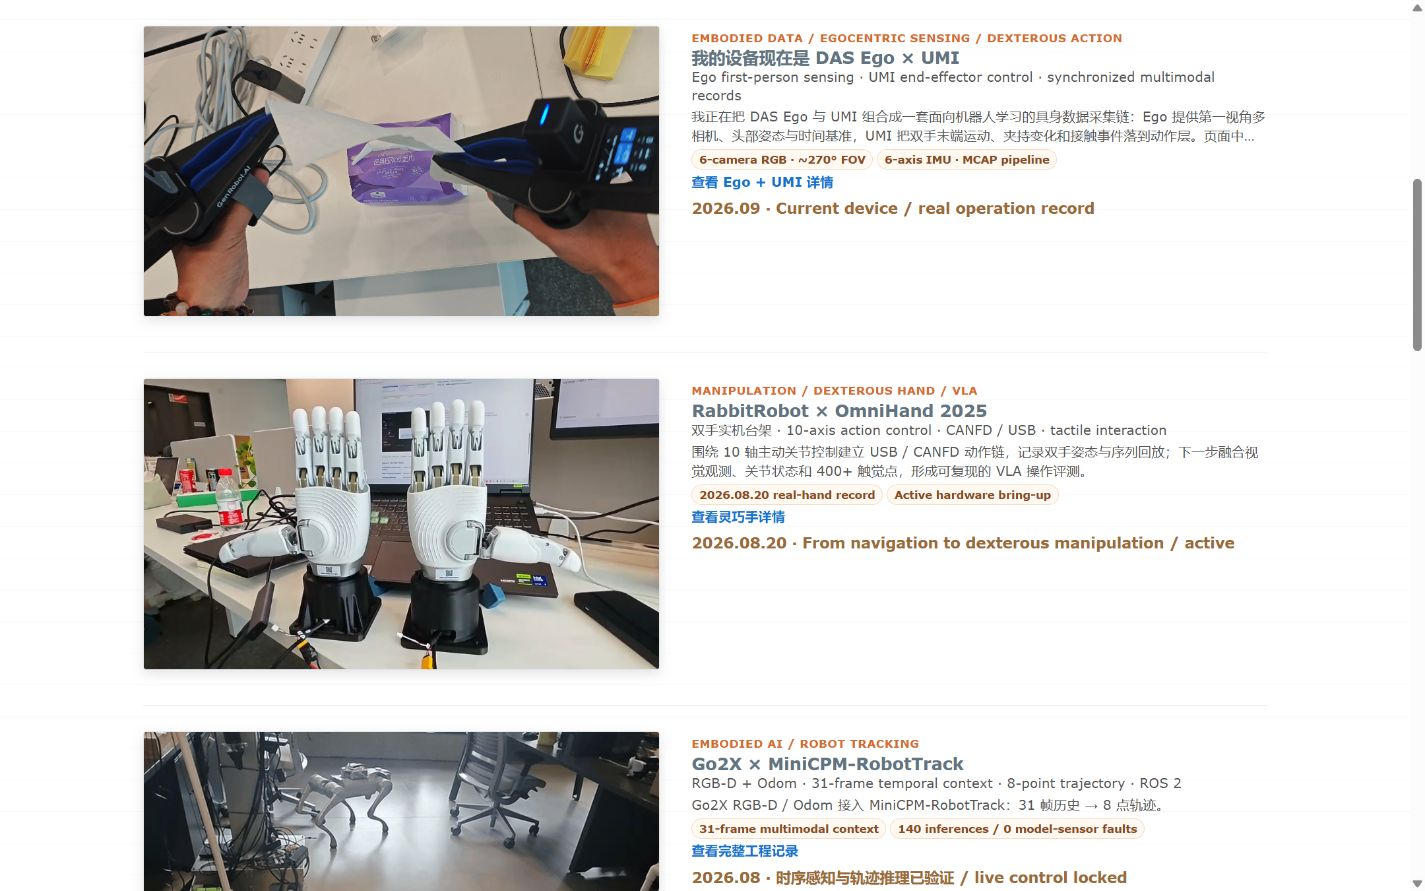
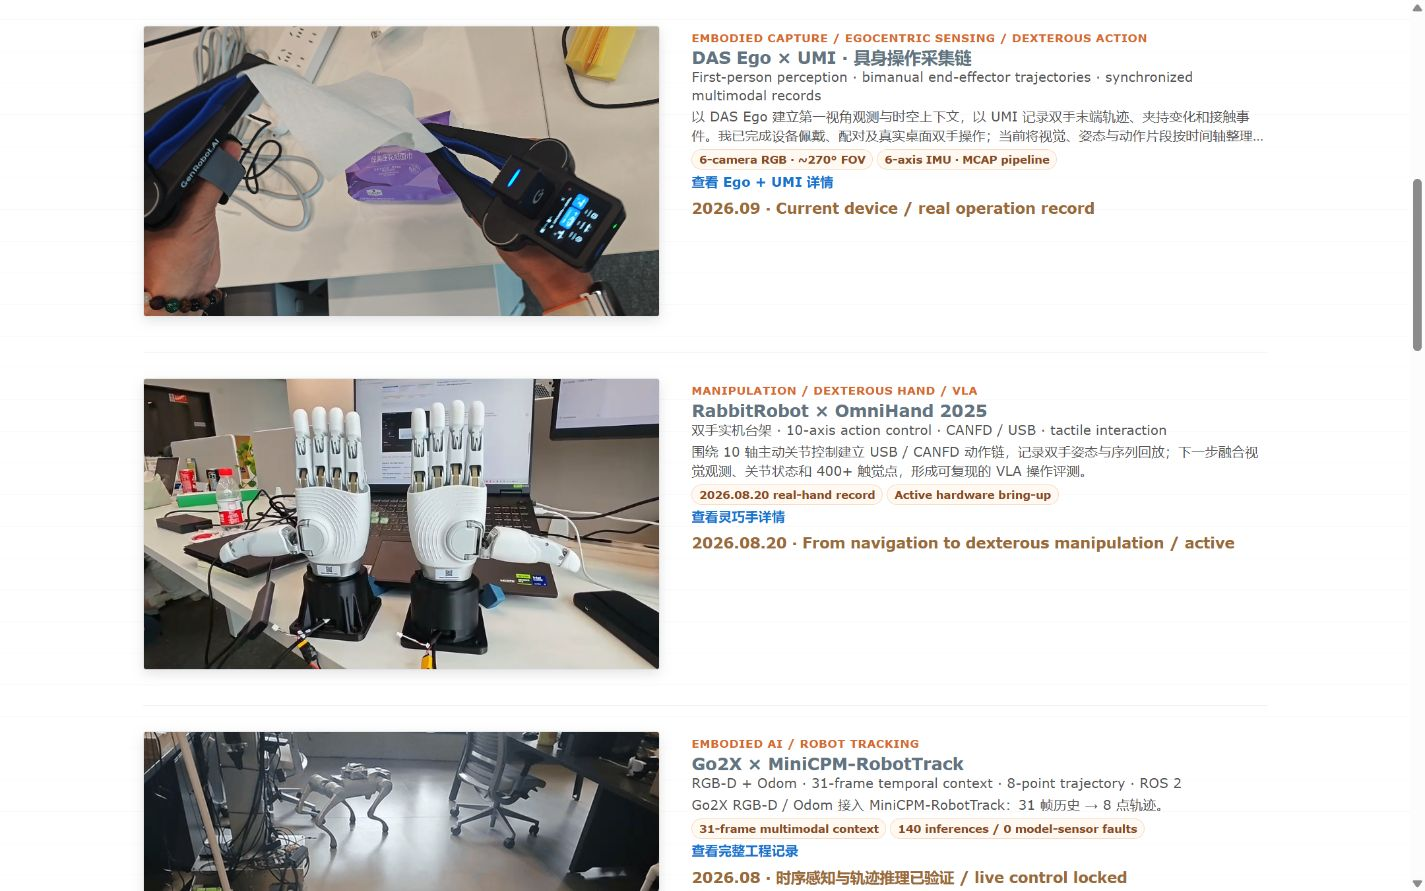
精修DAS Ego与UMI研究文案并统一九月标记
将首页与详情页从口号式设备介绍收束为观测上下文、末端轨迹、时间轴样本和VLA入口的研究档案表达，保留本人真实佩戴配对及双手操作证据，移除官方手册地址并统一2026.09；更新README与桌面、手机截图，完成视频解码、无溢出和链接检查。

diff --git a/index.html b/index.html
@@ -1427,11 +1427,11 @@
           </video>
         </a>
         <div>
-          <span class="project-kicker">Embodied Data / Egocentric Sensing / Dexterous Action</span>
-          <h3>我的设备现在是 DAS Ego &times; UMI</h3>
-          <span class="meta">Ego first-person sensing &middot; UMI end-effector control &middot; synchronized multimodal records</span>
+          <span class="project-kicker">Embodied Capture / Egocentric Sensing / Dexterous Action</span>
+          <h3>DAS Ego &times; UMI &middot; 具身操作采集链</h3>
+          <span class="meta">First-person perception &middot; bimanual end-effector trajectories &middot; synchronized multimodal records</span>
           <p class="note technical-note">
-            我正在把 DAS Ego 与 UMI 组合成一套面向机器人学习的具身数据采集链：Ego 提供第一视角多相机、头部姿态与时间基准，UMI 把双手末端运动、夹持变化和接触事件落到动作层。页面中的横屏视频是我本人在真实桌面环境完成佩戴、配对与双手操作的实录；当前工作已从设备 bring-up 进入样本整理，继续围绕时间戳对齐、动作切片和 VLA 示教评估建立可复盘流程。
+            以 DAS Ego 建立第一视角观测与时空上下文，以 UMI 记录双手末端轨迹、夹持变化和接触事件。我已完成设备佩戴、配对及真实桌面双手操作；当前将视觉、姿态与动作片段按时间轴整理为可复盘的数据单元，为后续 VLA 示教与策略评估提供真实输入。
           </p>
           <div class="metric-row">
             <span class="metric">6-camera RGB · ~270° FOV</span>

diff --git a/RabbitRobot/projects/rabbitrobot-ego-umi.html b/RabbitRobot/projects/rabbitrobot-ego-umi.html
@@ -26,11 +26,11 @@
 
   <header class="hero">
     <div>
-      <p class="kicker">Embodied Data / Egocentric Sensing / Dexterous Action</p>
+      <p class="kicker">Embodied Capture / Egocentric Sensing / Dexterous Action</p>
       <h1>GenRobot.AI <span style="white-space: nowrap;">DAS Ego × UMI</span></h1>
-      <p class="subtitle">从第一视角感知到手级动作，把设备接成可训练的具身数据链</p>
+      <p class="subtitle">从第一视角观测到双手末端动作的具身数据采集</p>
       <p class="summary">
-        我正在用 GenRobot.AI DAS Ego 与 UMI 搭建面向机器人学习的具身数据入口：Ego 负责第一视角多相机、头部姿态与时空关系，UMI 负责双手末端的运动、夹持与接触变化。我已经完成设备佩戴、配对和真实桌面双手操作，页面视频即本人实操记录；当前研究重点是把视觉、姿态、动作和接触事件按时间戳整理成可复盘样本，再接入 VLA 示教、动作切片与策略评估。
+        以 GenRobot.AI DAS Ego 建立第一视角与时空上下文，以 UMI 记录双手末端轨迹、夹持变化和接触事件。我已完成设备佩戴、配对与真实桌面双手操作，页面视频即本人实操记录；当前将多模态观测按时间轴整理为可复盘动作单元，进一步接入 VLA 示教、动作切片与策略评估。
       </p>
       <div class="meta-row">
         <span class="meta-pill">Time · 2026.09</span>

diff --git a/README.md b/README.md
@@ -6,7 +6,7 @@ Jinghai Li 的个人主页，保留原有白色横线纸背景、蓝橙配色、
 
 ### 2026-09 - 强化 DAS Ego × UMI 实机研究叙事
 
-本次将 `Selected Work` 最前面的当前设备项目 `DAS Ego + UMI` 改写为更完整的研究入口：Ego 对应第一视角感知与观察上下文，UMI 对应双手末端动作与接触事件，MCAP 对应可复盘的数据组织，最终连接 VLA 示教与策略评估。页面明确区分本人已经完成的佩戴、配对和真实桌面操作，以及仍在推进的时间戳对齐、动作切片与样本整理。项目时间统一标为 `2026.09`；页面不直接放置外部手册地址，避免把官方规格误写成个人实验结论。
+本次将 `Selected Work` 最前面的当前设备项目 `DAS Ego + UMI` 收束为更克制的研究档案表达：Ego 建立第一视角观测与时空上下文，UMI 记录双手末端轨迹、夹持变化与接触事件，MCAP 负责可复盘的数据组织，最终连接 VLA 示教与策略评估。页面明确区分已完成的真实实操和正在推进的动作单元整理。项目时间统一标为 `2026.09`；页面不直接放置外部手册地址。
 
 | 内容 | 实际改动与证据 |
 | --- | --- |
